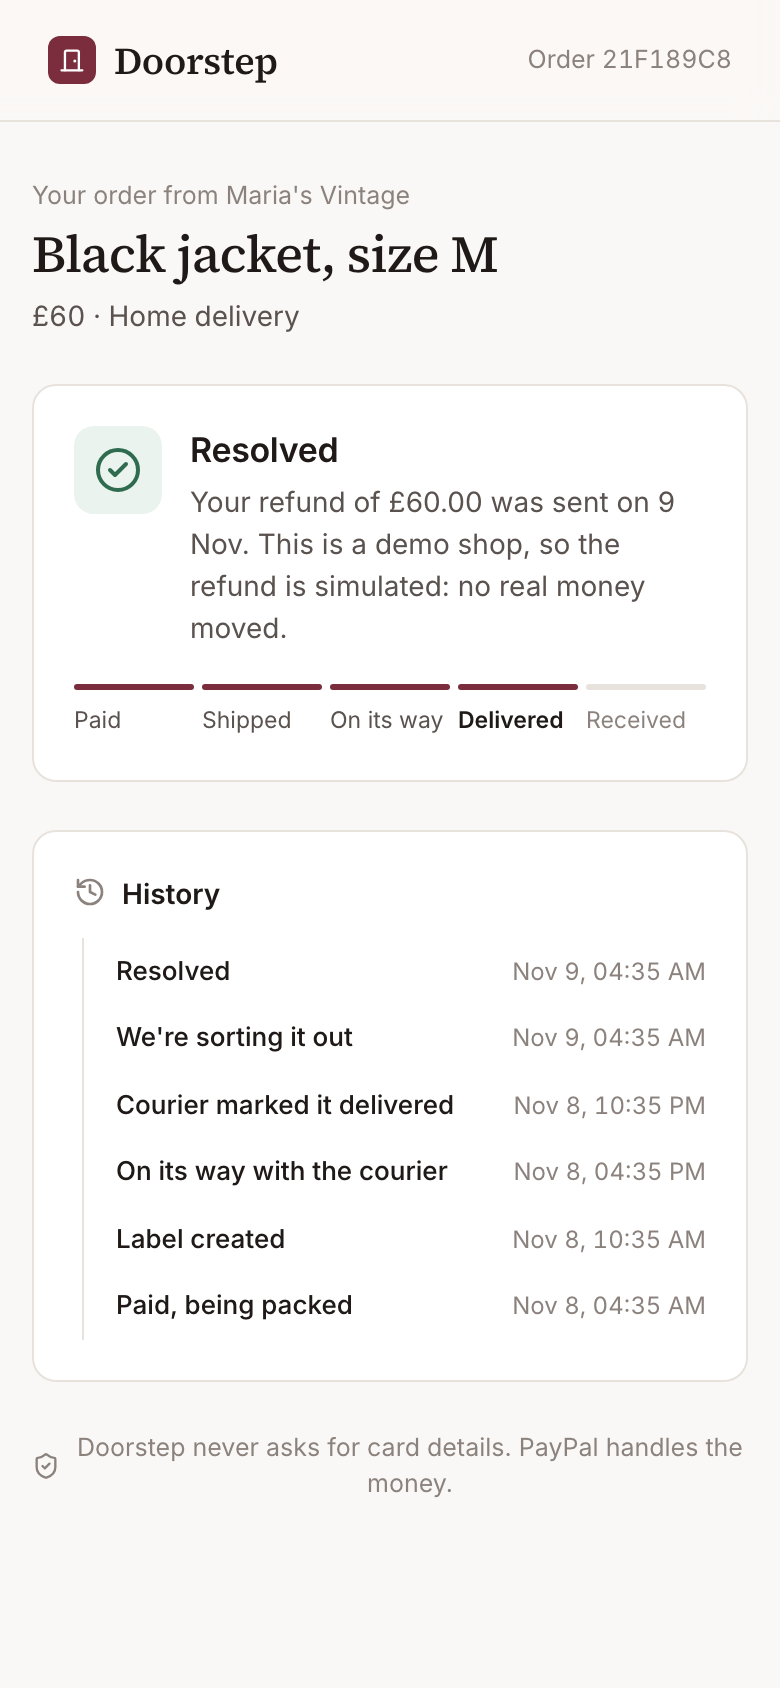
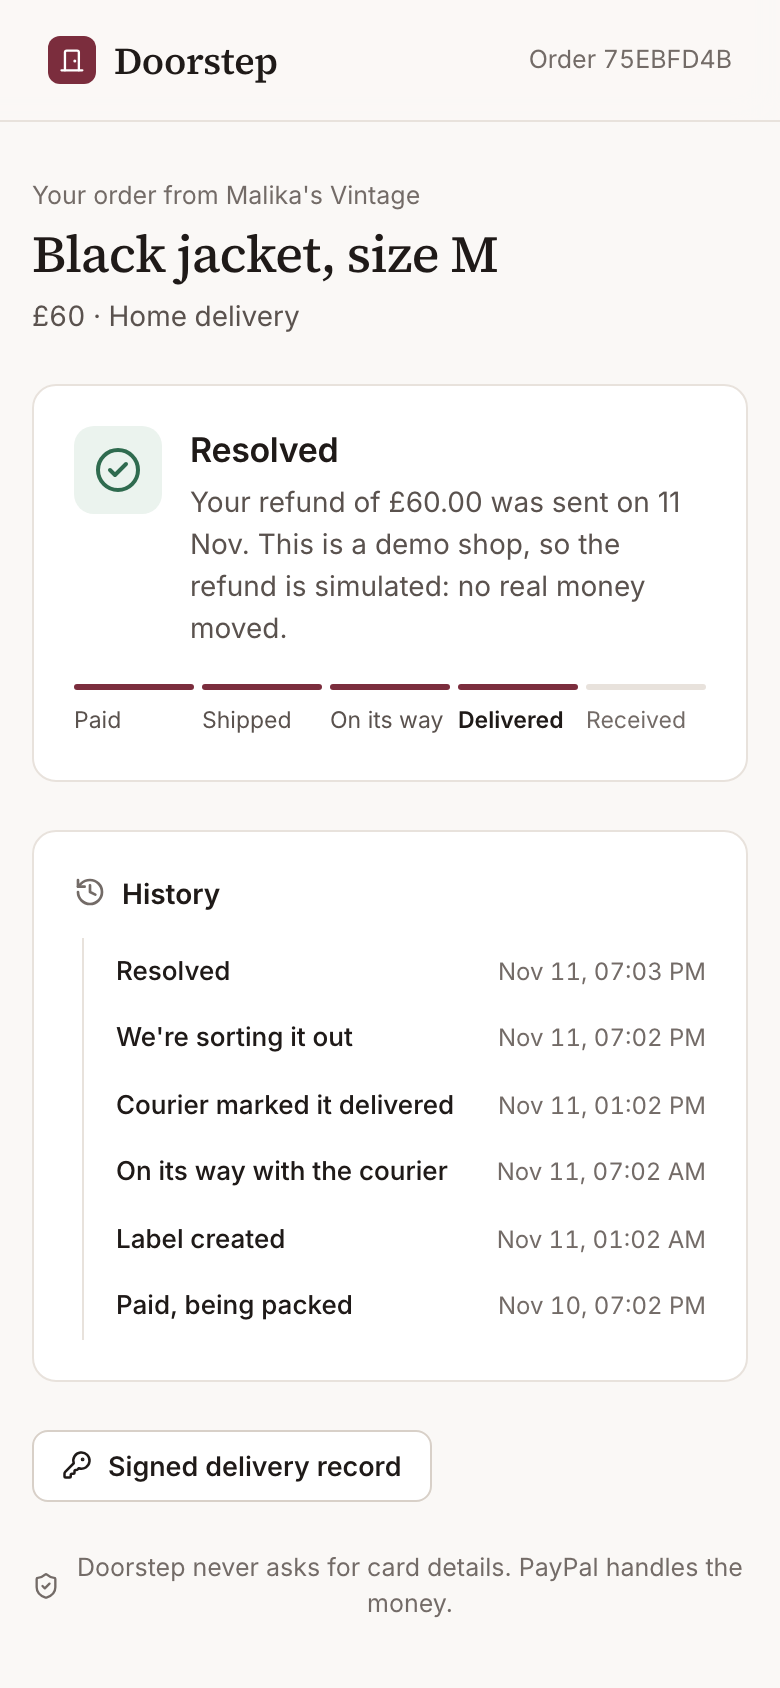
Demo cast in Uzbek names: Malika's shop, Diyorbek and Dilnoza; screenshots retaken
The seller, both story buyers and the other seeded buyers get Uzbek names in the seed, the app, the README, the architecture diagram and three screenshots. Seed keys (sam-jacket, priya-beret) stay, since recorded eval prompts carry the order ids built from them. Locked e2e specs change only the link text they click, listed as approved edits.

diff --git a/web/src/components/Journey3D.tsx b/web/src/components/Journey3D.tsx
@@ -13,9 +13,9 @@ const STEPS: Step[] = [
   { stage: "Prevent", short: "Pay", title: "Pays with PayPal", text: "Address checked before he's charged.", icon: <CreditCard /> },
   { stage: "Prove", short: "Seal", title: "Packed with a seal", text: "A QR inside the box proves who opened it.", icon: <QrCode /> },
   { stage: "Prove", short: "Ship", title: "Shipped and tracked", text: "Tracking goes on the PayPal payment.", icon: <Truck /> },
-  { stage: "Resolve", short: "Not here", title: "“Delivered”, but not here", text: "Wrong street. Sam taps Not here.", icon: <ScanLine /> },
+  { stage: "Resolve", short: "Not here", title: "“Delivered”, but not here", text: "Wrong street. Diyorbek taps Not here.", icon: <ScanLine /> },
   { stage: "Resolve", short: "Facts", title: "Doorstep checks the facts", text: "Courier data, the seal and the law.", icon: <Scale /> },
-  { stage: "Resolve", short: "Refund", title: "Refunded through PayPal", text: "Sam gets £60 back. Maria taps once.", icon: <Banknote /> },
+  { stage: "Resolve", short: "Refund", title: "Refunded through PayPal", text: "Diyorbek gets £60 back. Malika taps once.", icon: <Banknote /> },
   { stage: "Recover", short: "Claim", title: "A claim on the courier", text: "Checked, with the evidence, before the deadline.", icon: <Landmark /> },
 ];
 
@@ -36,7 +36,7 @@ const READOUT: { title: string; icon: ReactNode; rows: Row[] }[] = [
   ] },
   { title: "Courier: “Delivered”", icon: <ScanLine />, rows: [
     { kind: "no", text: <>Scanned in <b>E8</b>, not N1</> },
-    { kind: "no", text: <>Sam taps <b>Not here</b></> },
+    { kind: "no", text: <>Diyorbek taps <b>Not here</b></> },
   ] },
   { title: "The facts", icon: <Scale />, rows: [
     { kind: "no", text: "Scan from the wrong area" },
@@ -44,14 +44,14 @@ const READOUT: { title: string; icon: ReactNode; rows: Row[] }[] = [
     { kind: "law", text: <>Seller's risk <span className="faint">(CRA 2015 s.29)</span></> },
   ] },
   { title: "Refunded", icon: <Banknote />, rows: [
-    { kind: "ok", text: <>Sam refunded <b>£60.00</b></> },
+    { kind: "ok", text: <>Diyorbek refunded <b>£60.00</b></> },
     { kind: "ok", text: "Approved in one tap" },
     { kind: "ok", text: "Signed receipt" },
   ] },
   { title: "Carrier recovery", icon: <Landmark />, rows: [
     { kind: "ok", text: <>Claim checked: <b>8 of 8</b> facts</> },
     { kind: "ok", text: <>Royal Mail pays <b>£60.00</b></> },
-    { kind: "ok", text: <>Maria's loss: <b>£0</b></> },
+    { kind: "ok", text: <>Malika's loss: <b>£0</b></> },
   ] },
 ];
 
@@ -134,13 +134,13 @@ function Flow({ from, to, children }: { from: P3; to: P3; children: ReactNode })
 }
 
 function Flows({ step }: { step: number }) {
-  if (step === 0) return <Flow key="pay" from={AT_SAM} to={AT_SHOP}><CreditCard />£60 via PayPal</Flow>;
-  if (step === 5) return <Flow key="refund" from={AT_SHOP} to={AT_SAM}><Banknote />£60 back to Sam</Flow>;
+  if (step === 0) return <Flow key="pay" from={AT_BUYER} to={AT_SHOP}><CreditCard />£60 via PayPal</Flow>;
+  if (step === 5) return <Flow key="refund" from={AT_SHOP} to={AT_BUYER}><Banknote />£60 back to Diyorbek</Flow>;
   if (step === 6) return <Flow key="recover" from={AT_E8} to={[-112, 76, 18]}><Landmark />Royal Mail pays £60</Flow>;
   return null;
 }
 
-const AT_SAM: P3 = [150, 14, 64];
+const AT_BUYER: P3 = [150, 14, 64];
 const AT_SHOP: P3 = [-206, 34, 66];
 const AT_E8: P3 = [250, 52, 40];
 
@@ -173,8 +173,8 @@ function Scene({ step }: { step: number }) {
     { x: 238, y: 16, z: 0, o: 1 },
     { x: 238, y: 16, z: 0, o: 1 },
   ][step];
-  const sam: Pose = step === 0 || step === 3 || step === 4 ? "phone" : step >= 5 ? "cheer" : "stand";
-  const maria: Pose = step === 5 ? "phone" : step === 6 ? "cheer" : "stand";
+  const diyorbek: Pose = step === 0 || step === 3 || step === 4 ? "phone" : step >= 5 ? "cheer" : "stand";
+  const malika: Pose = step === 5 ? "phone" : step === 6 ? "cheer" : "stand";
   const parcelStyle: CSSProperties = { transform: `translate3d(${parcel.x}px, ${parcel.y}px, ${parcel.z}px)`, opacity: parcel.o, left: 0, top: 0 };
   const sealed = step >= 1;
 
@@ -183,14 +183,14 @@ function Scene({ step }: { step: number }) {
       <div className="floor" />
       <div className="road" />
 
-      {/* Maria's shop */}
+      {/* Malika's shop */}
       <Box x={-300} y={-72} w={104} d={84} h={66} top="#ffffff" front="#efe8e2" side="#e0d6cc"
         frontChildren={<><Door left={44} /><Windows count={2} left={10} bottom={40} gap={64} /></>}>
         <div style={{ position: "absolute", inset: 10, borderRadius: 4, background: "#f3eee9" }} />
       </Box>
       <Box x={-304} y={12} w={112} d={10} h={9} top="#a24c5e" front="#7b2d3d" side="#64222f" className="awning" style={{ transform: "translateZ(50px)" }} />
-      <Tag x={-248} y={-30} z={96}><Store />Maria's shop</Tag>
-      <Person x={-206} y={34} color="#4a403c" pose={maria} />
+      <Tag x={-248} y={-30} z={96}><Store />Malika's shop</Tag>
+      <Person x={-206} y={34} color="#4a403c" pose={malika} />
 
       {/* courier van (moves) */}
       <div className="obj parcel" style={{ left: 0, top: 0, transform: `translate3d(${vanX}px, 0px, 0px)`, opacity: step >= 3 ? 0 : 1 }}>
@@ -201,12 +201,12 @@ function Scene({ step }: { step: number }) {
         <Tag x={-64} y={52} z={74} show={step < 3}><Truck />Courier</Tag>
       </div>
 
-      {/* Sam's home, N1 */}
+      {/* Diyorbek's home, N1 */}
       <Box x={58} y={-96} w={92} d={84} h={74} top="#ffffff" front="#efe8e2" side="#e0d6cc"
         frontChildren={<><Door left={38} /><Windows count={2} left={10} bottom={44} gap={60} /></>} />
-      <Tag x={104} y={-54} z={98}><House />Sam <span className="sub">N1</span></Tag>
+      <Tag x={104} y={-54} z={98}><House />Diyorbek <span className="sub">N1</span></Tag>
       <div className="ghost-box" style={{ left: 92, top: 18, width: 30, height: 30, opacity: step >= 3 ? 1 : 0 }} />
-      <Person x={150} y={14} color="#7b2d3d" pose={sam} />
+      <Person x={150} y={14} color="#7b2d3d" pose={diyorbek} />
       <Tag x={150} y={14} z={64} tone="accent" show={step === 3 || step === 4}><Smartphone />Not here</Tag>
 
       {/* another street, E8 */}

diff --git a/web/src/pages/Home.tsx b/web/src/pages/Home.tsx
@@ -20,7 +20,7 @@ const NAV = (
 );
 
 // The demo shop survives Back and a reload in this tab, so a judge who leaves the Control Room
-// comes back to the same shop, and Sam's report still reaches it.
+// comes back to the same shop, and Diyorbek's report still reaches it.
 const SEED_KEY = "doorstep.demo-shop";
 
 function savedSeed(): SeedOut | null {
@@ -77,7 +77,7 @@ export default function Home() {
         <div className="section-head">
           <span className="kicker">How it works</span>
           <h2>One parcel, start to finish</h2>
-          <p>Sam buys a £60 jacket. The courier says &ldquo;Delivered&rdquo;. It wasn't.</p>
+          <p>Diyorbek buys a £60 jacket. The courier says &ldquo;Delivered&rdquo;. It wasn't.</p>
         </div>
         <Journey3D />
       </section>
@@ -104,12 +104,12 @@ export default function Home() {
         <div className="section-head">
           <span className="kicker">Live demo</span>
           <h2>Try it in a minute</h2>
-          <p>Your own copy of Maria's shop, in the PayPal sandbox.</p>
+          <p>Your own copy of Malika's shop, in the PayPal sandbox.</p>
         </div>
         <div className="demo">
           <div className="demo-top">
             <div className="col" style={{ gap: 4 }}>
-              <h3>Maria's shop</h3>
+              <h3>Malika's shop</h3>
               <span className="muted">{seed ? "Ready. Pick a role." : "Ready in a few seconds."}</span>
             </div>
             {!seed ? (
@@ -120,18 +120,18 @@ export default function Home() {
           </div>
           {err && <div style={{ padding: "0 28px 16px" }}><ErrorBox message={err} /></div>}
           <div className="demo-grid">
-            <DemoItem href={seed ? `/seller/${seed.seller_token}` : null} icon={<Store />} title="Maria's Control Room"
-              text="Approve refunds. Send evidence." go="Open Maria's Control Room" />
-            <DemoItem href={seed ? `/t/${seed.buyers["sam-jacket"]}` : null} newTab icon={<House />} title="Be Sam"
+            <DemoItem href={seed ? `/seller/${seed.seller_token}` : null} icon={<Store />} title="Malika's Control Room"
+              text="Approve refunds. Send evidence." go="Open Malika's Control Room" />
+            <DemoItem href={seed ? `/t/${seed.buyers["sam-jacket"]}` : null} newTab icon={<House />} title="Be Diyorbek"
               text="“Delivered”, but not there." go="Tap Not here" />
-            <DemoItem href={seed ? `/t/${seed.buyers["failed-attempt"]}` : null} newTab icon={<Truck />} title="Be Priya"
+            <DemoItem href={seed ? `/t/${seed.buyers["failed-attempt"]}` : null} newTab icon={<Truck />} title="Be Dilnoza"
               text="The courier missed her." go="Choose a locker" />
             <DemoItem href={seed ? `/shop/${seed.summary.seller_id}` : null} newTab icon={<CreditCard />} title="Buy with PayPal"
               text="A real sandbox checkout." go="Go to checkout" />
           </div>
           <div className="demo-path">
             <span style={{ fontWeight: 600, color: "var(--text)" }}>Suggested path</span>
-            <span>Be Sam</span><ChevronRight className="chev" />
+            <span>Be Diyorbek</span><ChevronRight className="chev" />
             <span>Approve the refund</span><ChevronRight className="chev" />
             <span>Verify the receipt</span>
             {seed && (
@@ -172,7 +172,7 @@ function Previews() {
     <div className="previews" aria-hidden>
       <div className="preview">
         <div className="pv-top">
-          <span className="pv-who"><Smartphone />Sam, the buyer</span>
+          <span className="pv-who"><Smartphone />Diyorbek, the buyer</span>
           <span className="pv-title">Taps Not here. Answer in minutes.</span>
         </div>
         <div className="pv-shot">
@@ -193,7 +193,7 @@ function Previews() {
 
       <div className="preview">
         <div className="pv-top">
-          <span className="pv-who"><Store />Maria, the seller</span>
+          <span className="pv-who"><Store />Malika, the seller</span>
           <span className="pv-title">Sees the facts. Approves in one tap.</span>
         </div>
         <div className="pv-shot">

diff --git a/web/e2e/liability.spec.ts b/web/e2e/liability.spec.ts
@@ -4,18 +4,18 @@ import { expect, test, type Page } from "@playwright/test";
 
 const shots = process.env.E2E_SHOTS;
 
-async function demoShop(page: Page): Promise<{ seller: string; sam: string }> {
+async function demoShop(page: Page): Promise<{ seller: string; diyorbek: string }> {
   await page.goto("/");
   await page.getByRole("button", { name: "Open my demo shop" }).click();
-  const seller = await page.getByRole("link", { name: /Open Maria's Control Room/ }).getAttribute("href");
-  const sam = await page.getByRole("link", { name: /Be Sam/ }).getAttribute("href");
-  return { seller: seller!, sam: sam! };
+  const seller = await page.getByRole("link", { name: /Open Malika's Control Room/ }).getAttribute("href");
+  const diyorbek = await page.getByRole("link", { name: /Be Diyorbek/ }).getAttribute("href");
+  return { seller: seller!, diyorbek: diyorbek! };
 }
 
 test("SL-02 the seal in the box: one tap proves the buyer has it", async ({ page, browser }, testInfo) => {
   const { seller } = await demoShop(page);
   await page.goto(seller);
-  await page.getByRole("button", { name: /^All/ }).click();  // delivered, nothing needs Maria
+  await page.getByRole("button", { name: /^All/ }).click();  // delivered, nothing needs Malika
   await page.getByText("Brass desk lamp").click();
   const seal = page.getByLabel("Possession seal");
   await seal.getByRole("button", { name: "Show seal" }).click();
@@ -35,12 +35,12 @@ test("SL-02 the seal in the box: one tap proves the buyer has it", async ({ page
   await expect(phone.getByText(/address/i)).toHaveCount(0);
 });
 
-test("SA-02 RC-05 RT-01 CF-01 Sam's scan is contradicted and Maria claims it back", async ({ page, context }) => {
-  const { seller, sam } = await demoShop(page);
+test("SA-02 RC-05 RT-01 CF-01 Diyorbek's scan is contradicted and Malika claims it back", async ({ page, context }) => {
+  const { seller, diyorbek } = await demoShop(page);
 
   const buyer = await context.newPage();
   await buyer.setViewportSize({ width: 420, height: 900 });
-  await buyer.goto(sam);
+  await buyer.goto(diyorbek);
   await buyer.getByRole("button", { name: "Not here" }).click();
   await buyer.getByRole("radio", { name: "It didn't arrive" }).click();
   await buyer.getByRole("button", { name: "Send report" }).click();
@@ -73,10 +73,10 @@ test("SA-02 RC-05 RT-01 CF-01 Sam's scan is contradicted and Maria claims it bac
   await expect(page.locator(".kpi", { hasText: "Recovered from carriers" })).toContainText("£60");
 });
 
-test("DE-01 possession proven, PayPal dispute open: Maria sends the facts once", async ({ page }) => {
+test("DE-01 possession proven, PayPal dispute open: Malika sends the facts once", async ({ page }) => {
   const { seller } = await demoShop(page);
   await page.goto(seller);
-  await page.getByText("Wireless headphones").click();  // in "Needs you": PayPal waits for Maria
+  await page.getByText("Wireless headphones").click();  // in "Needs you": PayPal waits for Malika
   await expect(page.getByText("The buyer opened a PayPal dispute", { exact: true })).toBeVisible();
   await expect(page.getByLabel("Delivered-scan audit").getByText("Consistent")).toBeVisible();
   await expect(page.getByLabel("What would have changed this")).toContainText("Possession was proven");

diff --git a/web/e2e/autopilot-statement.spec.ts b/web/e2e/autopilot-statement.spec.ts
@@ -1,4 +1,4 @@
-// AP-07 in a real browser: after Maria turns autopilot on, Priya's lost beret is refunded by her
+// AP-07 in a real browser: after Malika turns autopilot on, Dilnoza's lost beret is refunded by her
 // rule without waiting for her, and the Control Room accounts for it, linked to the case.
 import { expect, test } from "@playwright/test";
 
@@ -9,11 +9,11 @@ test.setTimeout(120_000);
 test("AP-07 the autopilot statement shows what the rule refunded and opens the case", async ({ page, request }) => {
   const seed = await (await request.post("/demo/seed?scratch=1")).json();
   const t = seed.seller_token;
-  const sam = await (await request.post(`/api/buyer/${seed.buyers["sam-jacket"]}/not-here`, NOT_HERE)).json();
-  expect((await request.post(`/api/seller/${t}/cases/${sam.case_id}/approve`)).ok()).toBeTruthy();
+  const diyorbek = await (await request.post(`/api/buyer/${seed.buyers["sam-jacket"]}/not-here`, NOT_HERE)).json();
+  expect((await request.post(`/api/seller/${t}/cases/${diyorbek.case_id}/approve`)).ok()).toBeTruthy();
   expect((await request.post(`/api/seller/${t}/autopilot`, { data: { failure_point: "CARRIER_LOST", currency: "GBP" } })).ok()).toBeTruthy();
-  const priya = await (await request.post(`/api/buyer/${seed.buyers["priya-beret"]}/not-here`, NOT_HERE)).json();
-  expect(priya.status).toBe("AUTO_REFUND");
+  const dilnoza = await (await request.post(`/api/buyer/${seed.buyers["priya-beret"]}/not-here`, NOT_HERE)).json();
+  expect(dilnoza.status).toBe("AUTO_REFUND");
 
   // The worker completes the refund at PayPal (simulated for demo orders); then it is in the statement.
   // 60 s: with the whole suite seeding shops in parallel, one worker drains a long job queue.

diff --git a/web/e2e/insights-atlas.spec.ts b/web/e2e/insights-atlas.spec.ts
@@ -6,7 +6,7 @@ const shots = process.env.E2E_SHOTS;
 async function openAtlas(page: Page) {
   await page.goto("/");
   await page.getByRole("button", { name: "Open my demo shop" }).click();
-  const href = await page.getByRole("link", { name: /Open Maria's Control Room/ }).getAttribute("href");
+  const href = await page.getByRole("link", { name: /Open Malika's Control Room/ }).getAttribute("href");
   await page.goto(`${href!}#insights`);
   const nav = page.getByRole("navigation", { name: "Reports" });
   await expect(nav).toBeVisible();
@@ -39,7 +39,7 @@ test("AS-15 the atlas draws a tile per area; hover shows orders, with no buyer d
   const labels = await atlas.locator(".ds-atlas-tile").evaluateAll((els) => els.map((e) => e.getAttribute("aria-label")));
   const text = `${await atlas.innerText()} ${labels.join(" ")}`;
   expect(text).not.toContain("@");
-  for (const name of ["Sam Carter", "Priya Shah", "Sam", "Priya"]) expect(text).not.toContain(name);
+  for (const name of ["Diyorbek Karimov", "Dilnoza Yusupova", "Diyorbek", "Dilnoza"]) expect(text).not.toContain(name);
 
   // A click picks the area: the tile is pressed and the others fade, and a second click clears it.
   await tile.dispatchEvent("click");

diff --git a/web/e2e/caseQueue.spec.ts b/web/e2e/caseQueue.spec.ts
@@ -7,12 +7,12 @@ const CLOSED = ["SETTLED", "CLOSED"];
 test("AS-07 the case queue shows every open case, Approve shows the PayPal result, no address", async ({ page, context, request }) => {
   await page.goto("/");
   await page.getByRole("button", { name: "Open my demo shop" }).click();
-  const sellerHref = (await page.getByRole("link", { name: /Open Maria's Control Room/ }).getAttribute("href"))!;
-  const samHref = (await page.getByRole("link", { name: /Be Sam/ }).getAttribute("href"))!;
+  const sellerHref = (await page.getByRole("link", { name: /Open Malika's Control Room/ }).getAttribute("href"))!;
+  const diyorbekHref = (await page.getByRole("link", { name: /Be Diyorbek/ }).getAttribute("href"))!;
 
-  // Sam reports "Not here": a new case that waits for the seller.
+  // Diyorbek reports "Not here": a new case that waits for the seller.
   const buyer = await context.newPage();
-  await buyer.goto(samHref);
+  await buyer.goto(diyorbekHref);
   await buyer.getByRole("button", { name: "Not here" }).click();
   await buyer.getByRole("radio", { name: "It didn't arrive" }).click();
   await buyer.getByRole("button", { name: "Send report" }).click();

diff --git a/web/e2e/autopilot.spec.ts b/web/e2e/autopilot.spec.ts
@@ -1,11 +1,11 @@
-// AP-06 and AT-06 in a real browser: the agent checks PayPal on its own when Maria opens Sam's case;
+// AP-06 and AT-06 in a real browser: the agent checks PayPal on its own when Malika opens Diyorbek's case;
 // after she approves, Doorstep offers to handle refunds like it, and she turns the rule on and off.
 import { expect, test } from "@playwright/test";
 
-test("AP-06 Maria approves Sam, turns autopilot on, then off", async ({ page, request }) => {
+test("AP-06 Malika approves Diyorbek, turns autopilot on, then off", async ({ page, request }) => {
   const seed = await (await request.post("/demo/seed?scratch=1")).json();
-  const sam = await request.post(`/api/buyer/${seed.buyers["sam-jacket"]}/not-here`, { data: { reason: "not_received", note: "" } });
-  expect(sam.ok()).toBeTruthy();
+  const diyorbek = await request.post(`/api/buyer/${seed.buyers["sam-jacket"]}/not-here`, { data: { reason: "not_received", note: "" } });
+  expect(diyorbek.ok()).toBeTruthy();
 
   await page.goto(`/seller/${seed.seller_token}`);
   await expect(page.getByLabel("Autopilot suggestion")).toHaveCount(0);

diff --git a/web/e2e/insights-trace.spec.ts b/web/e2e/insights-trace.spec.ts
@@ -6,7 +6,7 @@ const shots = process.env.E2E_SHOTS;
 async function openInsights(page: Page) {
   await page.goto("/");
   await page.getByRole("button", { name: "Open my demo shop" }).click();
-  const href = await page.getByRole("link", { name: /Open Maria's Control Room/ }).getAttribute("href");
+  const href = await page.getByRole("link", { name: /Open Malika's Control Room/ }).getAttribute("href");
   await page.goto(`${href!}#insights`);
   await expect(page.getByRole("navigation", { name: "Reports" })).toBeVisible();
   await expect(page.locator(".ag-studio-value-widget-content").first()).toHaveText(/\d/);
@@ -31,7 +31,7 @@ test("AS-13 a finished reply has Steps: labelled, in order, with no buyer detail
   await expect(rows.first()).toContainText(/^\s*\S+( \S+){0,2}\s*$/);
   const text = await trace.innerText();
   expect(text).not.toMatch(/@|complete task/i);
-  expect(text).not.toMatch(/Maria|Priya|Ahmed|buyer/i);
+  expect(text).not.toMatch(/Malika|Dilnoza|Ahmed|buyer/i);
   if (shots) await page.screenshot({ path: `${shots}/trace-open.png` });
 });
 

diff --git a/web/e2e/journey.spec.ts b/web/e2e/journey.spec.ts
@@ -10,11 +10,11 @@ test("E2E-01 buyer reports, seller approves, receipts verify", async ({ page, co
   if (shots) await page.screenshot({ path: `${shots}/01-home.png`, fullPage: true });
 
   await page.getByRole("button", { name: "Open my demo shop" }).click();
-  const sellerHref = await page.getByRole("link", { name: /Open Maria's Control Room/ }).getAttribute("href");
-  const samHref = await page.getByRole("link", { name: /Be Sam/ }).getAttribute("href");
+  const sellerHref = await page.getByRole("link", { name: /Open Malika's Control Room/ }).getAttribute("href");
+  const samHref = await page.getByRole("link", { name: /Be Diyorbek/ }).getAttribute("href");
   if (shots) await page.screenshot({ path: `${shots}/02-home-seeded.png`, fullPage: true });
 
-  // Buyer: Sam's jacket says delivered, but it isn't there.
+  // Buyer: Diyorbek's jacket says delivered, but it isn't there.
   const buyer = await context.newPage();
   await buyer.setViewportSize({ width: 420, height: 900 });
   await buyer.goto(samHref!);

diff --git a/web/e2e/packing.spec.ts b/web/e2e/packing.spec.ts
@@ -1,4 +1,4 @@
-// PK in a real browser: Maria photographs a paid order before shipping. Without a model key the
+// PK in a real browser: Malika photographs a paid order before shipping. Without a model key the
 // check never auto-passes ("Please check it yourself"); she confirms, then ships.
 import { expect, test } from "@playwright/test";
 
@@ -12,7 +12,7 @@ const PNG = Buffer.from(
 test("PK-02 packing photo, seller confirms, ships", async ({ page }) => {
   await page.goto("/");
   await page.getByRole("button", { name: "Open my demo shop" }).click();
-  const sellerHref = await page.getByRole("link", { name: /Open Maria's Control Room/ }).getAttribute("href");
+  const sellerHref = await page.getByRole("link", { name: /Open Malika's Control Room/ }).getAttribute("href");
   await page.goto(sellerHref!);
 
   await expect(page.getByText("Pack it")).toBeVisible();

diff --git a/web/e2e/insights.spec.ts b/web/e2e/insights.spec.ts
@@ -14,7 +14,7 @@ const kpiNumber = async (page: Page, label: string) => Number((await kpiValue(pa
 async function openInsights(page: Page) {
   await page.goto("/");
   await page.getByRole("button", { name: "Open my demo shop" }).click();
-  const sellerHref = await page.getByRole("link", { name: /Open Maria's Control Room/ }).getAttribute("href");
+  const sellerHref = await page.getByRole("link", { name: /Open Malika's Control Room/ }).getAttribute("href");
   await page.goto(`${sellerHref!}#insights`);
   await expect(page.getByRole("navigation", { name: "Reports" })).toBeVisible();
   await expect(kpiValue(page, "Orders")).toHaveText(/\d/);

diff --git a/web/e2e/grid-detail.spec.ts b/web/e2e/grid-detail.spec.ts
@@ -4,7 +4,7 @@ import { expect, test } from "@playwright/test";
 test("GD-01 the detail panel of an order with a case shows a timeline grid with a time and an event", async ({ page }) => {
   await page.goto("/");
   await page.getByRole("button", { name: "Open my demo shop" }).click();
-  const href = (await page.getByRole("link", { name: /Open Maria's Control Room/ }).getAttribute("href"))!;
+  const href = (await page.getByRole("link", { name: /Open Malika's Control Room/ }).getAttribute("href"))!;
   await page.goto(href);
   await page.getByRole("group", { name: "Filter orders" }).getByRole("button", { name: /^All orders/ }).click();
 
